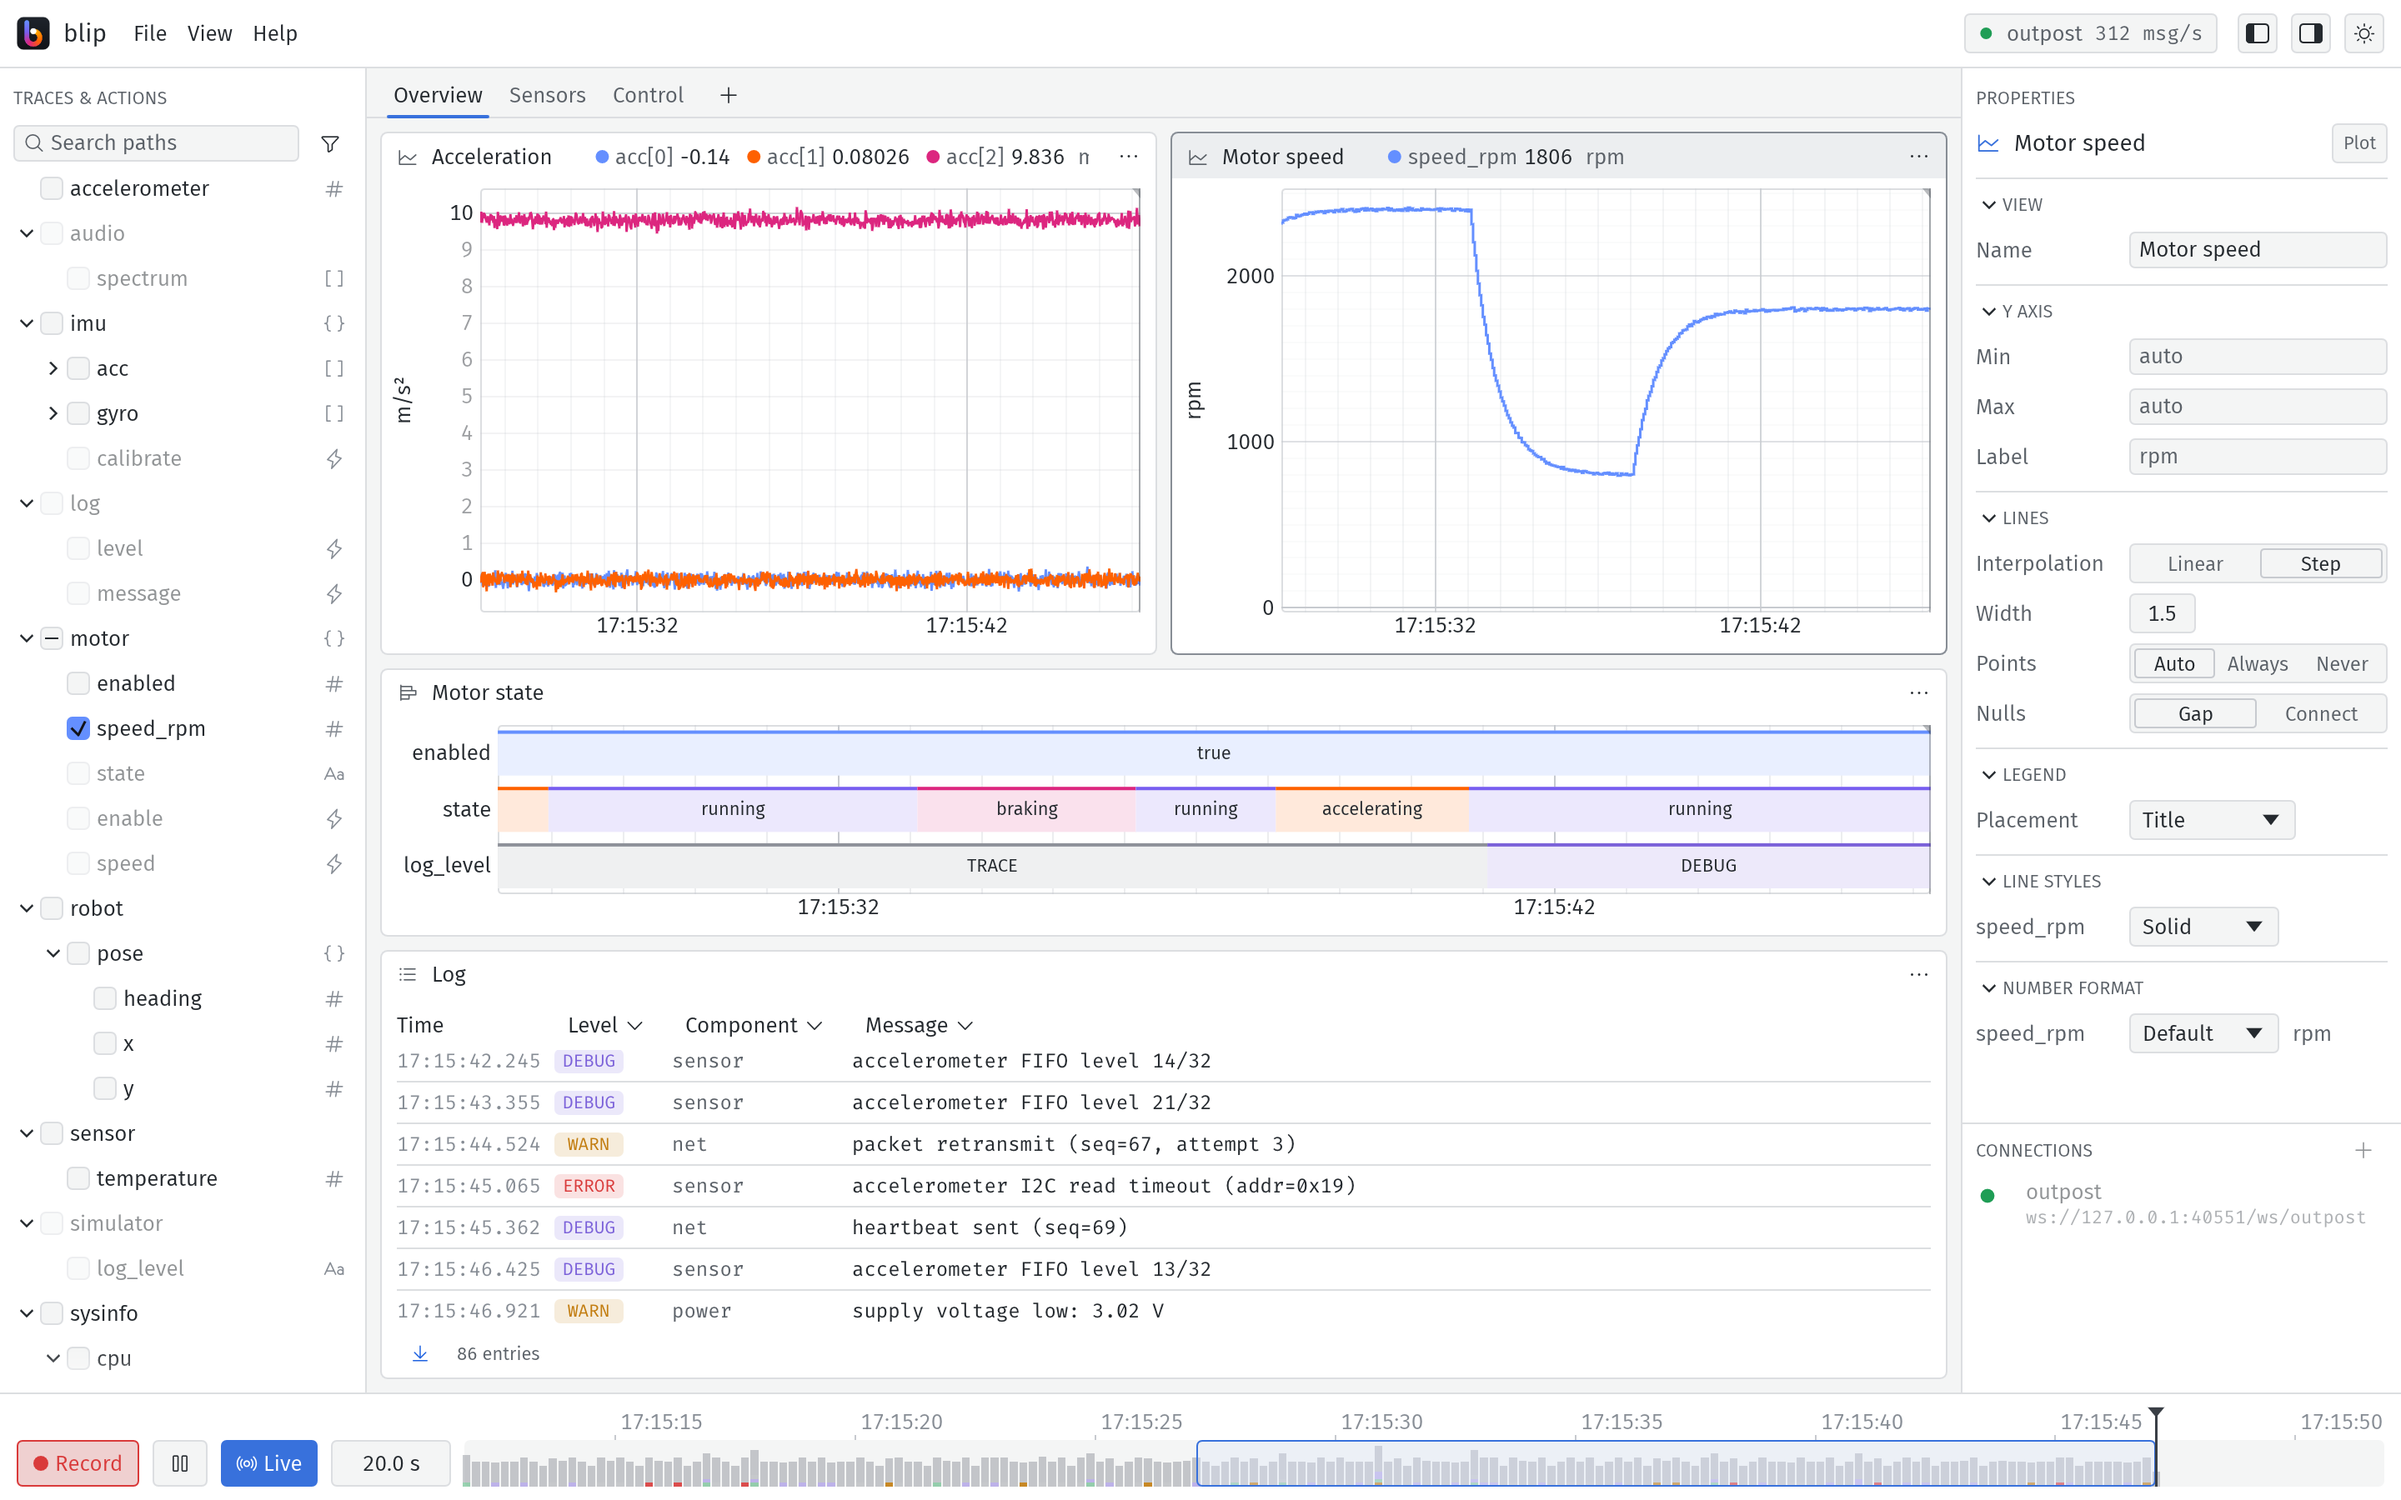
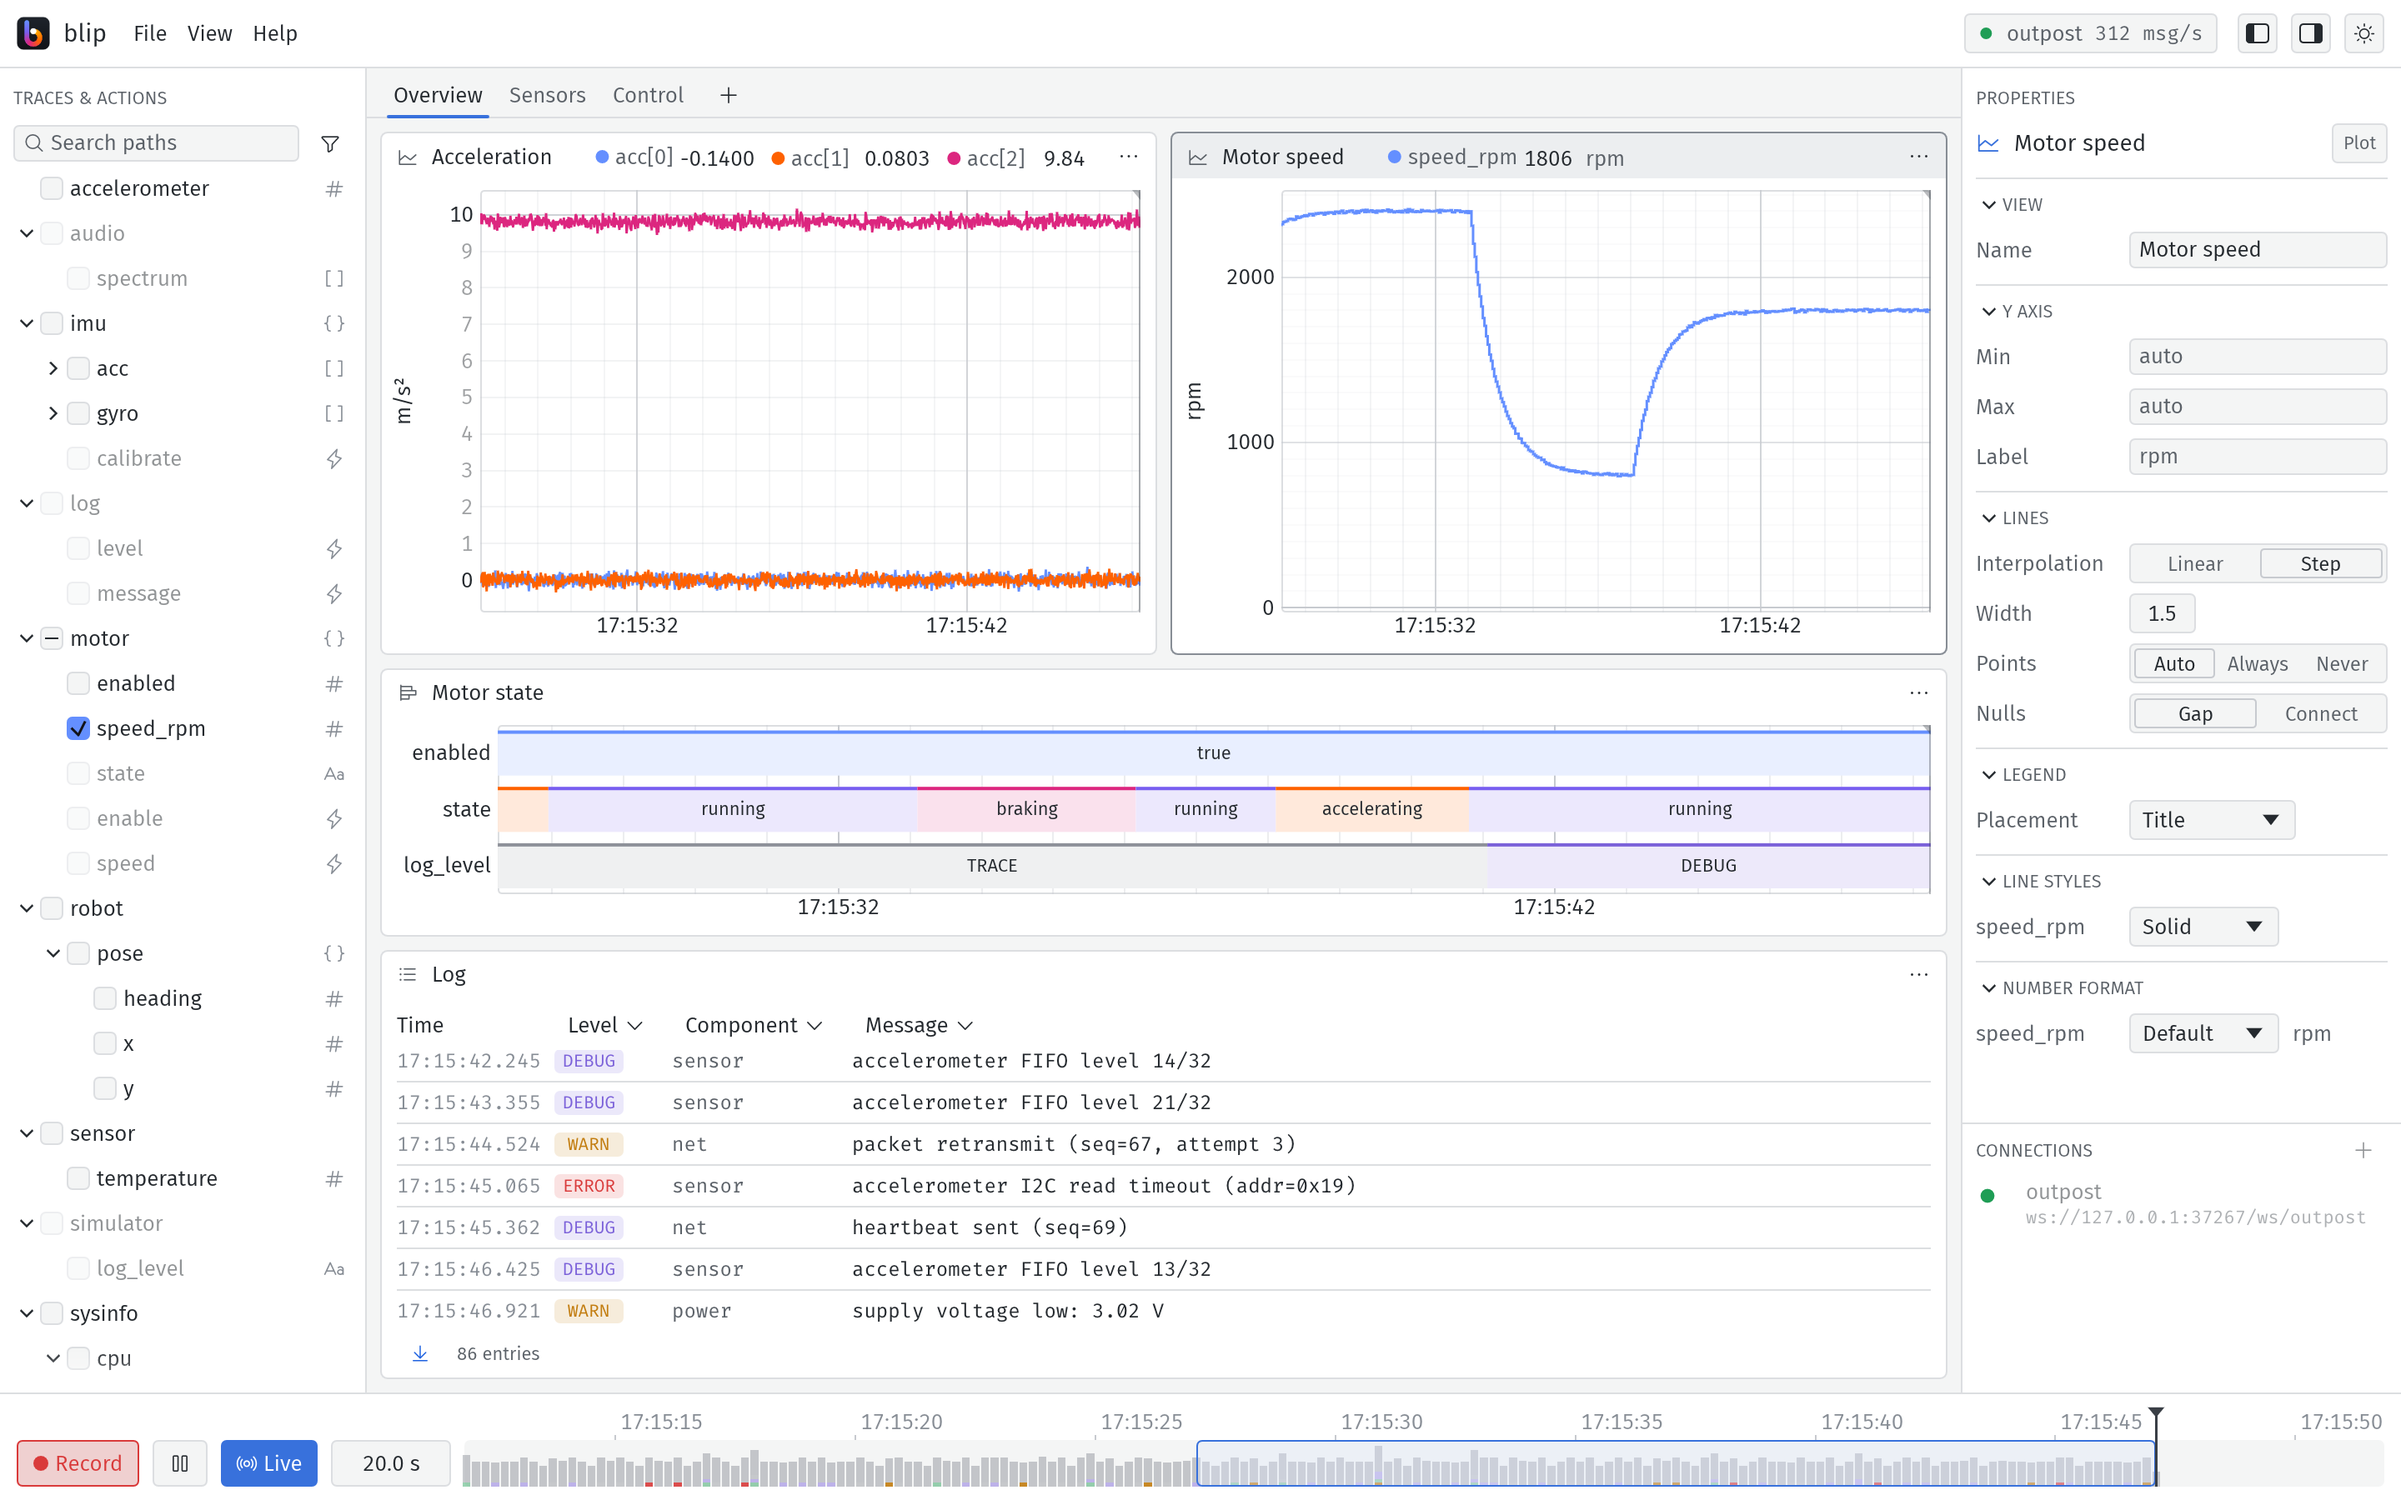
Keep the values of the title legend in place while they change
Floats are written with the decimals that give their largest magnitude
four significant digits, so all values of a trace have the same
decimals, and each value is right-aligned in a slot as wide as the
widest value of its range, with room for a minus sign. With the digits
of equal width, the digits no longer jump around while a trace runs.

Changed region(s): [[0.1875, 0.0933, 0.4688, 0.1556], [0.5312, 0.1244, 0.625, 0.1556]]

diff --git a/blip/src/app/view/plot.rs b/blip/src/app/view/plot.rs
@@ -1,7 +1,9 @@
 use super::Selectable;
 use super::time_axis::{self, TimeAxis, closest_index, index_at, visible_range};
 use super::{Formats, PropertiesContext, ViewContext, Viewable, short_names, with_unit};
-use crate::app::model::numbers::{NumberKind, SHOWN_DIGITS};
+use crate::app::model::numbers::{
+    DisplayFormat, NumberKind, SHOWN_DIGITS, fixed_decimals, widest_fixed,
+};
 use crate::app::model::traces::{Samples, Trace};
 use crate::app::model::{Model, traces::Series};
 use crate::app::theme;
@@ -539,6 +541,36 @@ impl super::ViewInfo for Plot {
     }
 }
 
+/// Shows `value` of the trace at `path` in the legend of the title row, right-aligned
+/// in a slot as wide as `widest` and as the widest value it showed, so that its digits
+/// keep their place while it changes.
+fn legend_value(ui: &mut egui::Ui, path: &str, value: Option<&str>, widest: Option<&str>) {
+    let font = egui::TextStyle::Body.resolve(ui.style());
+    let width_of = |text: &str| {
+        ui.ctx().fonts_mut(|fonts| {
+            let galley =
+                fonts.layout_no_wrap(text.to_owned(), font.clone(), egui::Color32::PLACEHOLDER);
+            galley.size().x
+        })
+    };
+    let needed = value
+        .map_or(0.0, width_of)
+        .max(widest.map_or(0.0, width_of));
+    let id = ui.id().with(("legend value width", path));
+    let width = ui.data_mut(|data| {
+        let width = data.get_temp_mut_or_default::<f32>(id);
+        *width = width.max(needed);
+        *width
+    });
+    let size = egui::vec2(width, ui.spacing().interact_size.y);
+    let layout = egui::Layout::right_to_left(egui::Align::Center);
+    ui.allocate_ui_with_layout(size, layout, |ui| {
+        if let Some(value) = value {
+            ui.label(egui::RichText::new(value).strong());
+        }
+    });
+}
+
 impl Viewable for Plot {
     fn title_ui(&self, ui: &mut egui::Ui, model: &Model, time: &TimeRange, formats: &Formats) {
         if self.legend != LegendPlacement::Title {
@@ -556,16 +588,28 @@ impl Viewable for Plot {
             ui.painter().circle_filled(dot.center(), 4.0, color);
             ui.label(egui::RichText::new(name).color(weak))
                 .on_hover_text(path);
+            let Some(series) = model.traces.series(path) else {
+                continue;
+            };
+            let format = formats.of(path);
+            // floats keep the same decimals while they change, see `fixed_decimals`
+            let decimals = (series.range)
+                .filter(|_| format == DisplayFormat::Default)
+                .and_then(|range| fixed_decimals(range, SHOWN_DIGITS));
             let value = t.and_then(|t| {
-                let series = model.traces.series(path)?;
                 let value = series.number(index_at(series.timestamps, t)?);
-                let text = value.format(Some(SHOWN_DIGITS), formats.of(path));
+                let text = match decimals {
+                    Some(decimals) => value.format_fixed(decimals),
+                    None => value.format(Some(SHOWN_DIGITS), format),
+                };
                 let own_unit = model.traces.unit(path).filter(|_| unit.is_none());
                 Some(with_unit(text, own_unit.filter(|_| !value.is_null())))
             });
-            if let Some(value) = value {
-                ui.label(egui::RichText::new(value).strong());
-            }
+            let widest = series.range.zip(decimals).map(|(range, decimals)| {
+                let own_unit = model.traces.unit(path).filter(|_| unit.is_none());
+                with_unit(widest_fixed(range, decimals), own_unit)
+            });
+            legend_value(ui, path, value.as_deref(), widest.as_deref());
         }
         if let Some(unit) = unit {
             ui.add_space(4.0);
@@ -758,6 +802,62 @@ mod tests {
                 },
                 state,
             )
+    }
+
+    #[test]
+    fn values_in_the_title_legend_keep_their_place() {
+        use egui_kittest::kittest::Queryable;
+
+        // the sign and the number of digits change, the decimals are fixed
+        let values = [-0.14, 0.08026, 9.836, 1.5, -3.2];
+        let texts = ["-0.140", "0.080", "9.836", "1.500", "-3.200"];
+        let mut model = Model::default();
+        for (second, value) in values.into_iter().enumerate() {
+            model.traces.append(&proto::Value {
+                timestamp: second as u64 * 1_000_000_000,
+                path: "v".to_owned(),
+                value: proto::Data::Float(value),
+            });
+        }
+        let mut plot = Plot::default();
+        plot.traces.insert("v".to_owned());
+        let state = State {
+            plot,
+            model,
+            time: Default::default(),
+            invoker: Default::default(),
+        };
+        let mut harness = egui_kittest::Harness::builder()
+            .with_size(egui::vec2(400.0, 40.0))
+            .build_ui_state(
+                |ui, state: &mut State| {
+                    state.time.update(&state.model, 0.0);
+                    ui.horizontal(|ui| {
+                        let (model, time) = (&state.model, &state.time);
+                        state
+                            .plot
+                            .title_ui(ui, model, time, &super::super::NO_FORMATS);
+                    });
+                },
+                state,
+            );
+        let mut right_edges = vec![];
+        for (second, text) in texts.into_iter().enumerate() {
+            let state = harness.state_mut();
+            state.time.update(&state.model, 0.0);
+            let latest = state.time.latest().unwrap();
+            state
+                .time
+                .set_cursor(latest - (values.len() - 1 - second) as f64);
+            harness.run();
+            right_edges.push(harness.get_by_label(text).rect().max.x);
+        }
+        assert!(
+            right_edges
+                .windows(2)
+                .all(|pair| (pair[0] - pair[1]).abs() < 0.01),
+            "{right_edges:?}"
+        );
     }
 
     /// The y range of `plot`, the panned or zoomed one or else the fitted one.

diff --git a/blip/src/app/model/numbers.rs b/blip/src/app/model/numbers.rs
@@ -88,6 +88,15 @@ impl Number {
         }
     }
 
+    /// The number written with `decimals` decimals if it is a float, else as
+    /// [`Number::format`] writes it by default.
+    pub fn format_fixed(self, decimals: usize) -> String {
+        match self {
+            Self::Float(value) if value.is_finite() => format!("{value:.decimals$}"),
+            _ => self.format(None, DisplayFormat::Default),
+        }
+    }
+
     /// The number written in `format`, a float with at most `digits` significant
     /// digits or all of them if `digits` is `None`. The format does not apply to bools
     /// and nulls, and hex and binary not to floats that are not whole numbers.
@@ -165,6 +174,43 @@ pub fn format_significant(value: f64, digits: usize) -> String {
     }
     let decimals = (digits as i32 - 1 - magnitude).max(0) as usize;
     trim_zeros(&format!("{value:.decimals$}")).to_owned()
+}
+
+/// The decimals that write the values of `range` with `digits` significant digits of
+/// its largest magnitude, so that all of them have the same decimals and keep their
+/// place while they change, or `None` for magnitudes written with an exponent.
+pub fn fixed_decimals((low, high): (f64, f64), digits: usize) -> Option<usize> {
+    let largest = low.abs().max(high.abs());
+    if !largest.is_finite() {
+        return None;
+    }
+    let digits = digits.max(1);
+    if largest == 0.0 {
+        return Some(0);
+    }
+    let magnitude = largest.log10().floor() as i32;
+    if magnitude >= digits.max(6) as i32 || magnitude < -4 {
+        return None;
+    }
+    Some((digits as i32 - 1 - magnitude).max(0) as usize)
+}
+
+/// The widest text of a value of `range` written with `decimals` decimals, made of
+/// the widest digit, with a sign if the range has negative values, to reserve room
+/// for any of them.
+pub fn widest_fixed((low, high): (f64, f64), decimals: usize) -> String {
+    let largest = low.abs().max(high.abs());
+    let integer_digits = format!("{largest:.decimals$}")
+        .split('.')
+        .next()
+        .map_or(1, str::len);
+    let sign = if low < 0.0 { "-" } else { "" };
+    let fraction = if decimals > 0 {
+        format!(".{}", "8".repeat(decimals))
+    } else {
+        String::new()
+    };
+    format!("{sign}{}{fraction}", "8".repeat(integer_digits))
 }
 
 /// `number` without trailing zeros after its decimal point.
@@ -480,6 +526,20 @@ impl Numbers {
 #[cfg(test)]
 mod tests {
     use super::*;
+
+    #[test]
+    fn values_of_a_range_get_the_same_decimals_and_room() {
+        assert_eq!(fixed_decimals((-0.2, 9.9), 4), Some(3));
+        assert_eq!(fixed_decimals((0.0, 2400.0), 4), Some(0));
+        assert_eq!(fixed_decimals((0.0, 0.0), 4), Some(0));
+        assert_eq!(fixed_decimals((0.0, 1.0e9), 4), None);
+        assert_eq!(fixed_decimals((0.0, 1.0e-6), 4), None);
+        assert_eq!(widest_fixed((-0.2, 9.9), 3), "-8.888");
+        assert_eq!(widest_fixed((0.0, 2400.0), 0), "8888");
+        assert_eq!(Number::Float(0.08026).format_fixed(3), "0.080");
+        assert_eq!(Number::Float(-0.14).format_fixed(3), "-0.140");
+        assert_eq!(Number::Int(-3).format_fixed(3), "-3");
+    }
 
     fn numbers(values: &[Number]) -> Result<Numbers, String> {
         let mut numbers = Numbers::default();
